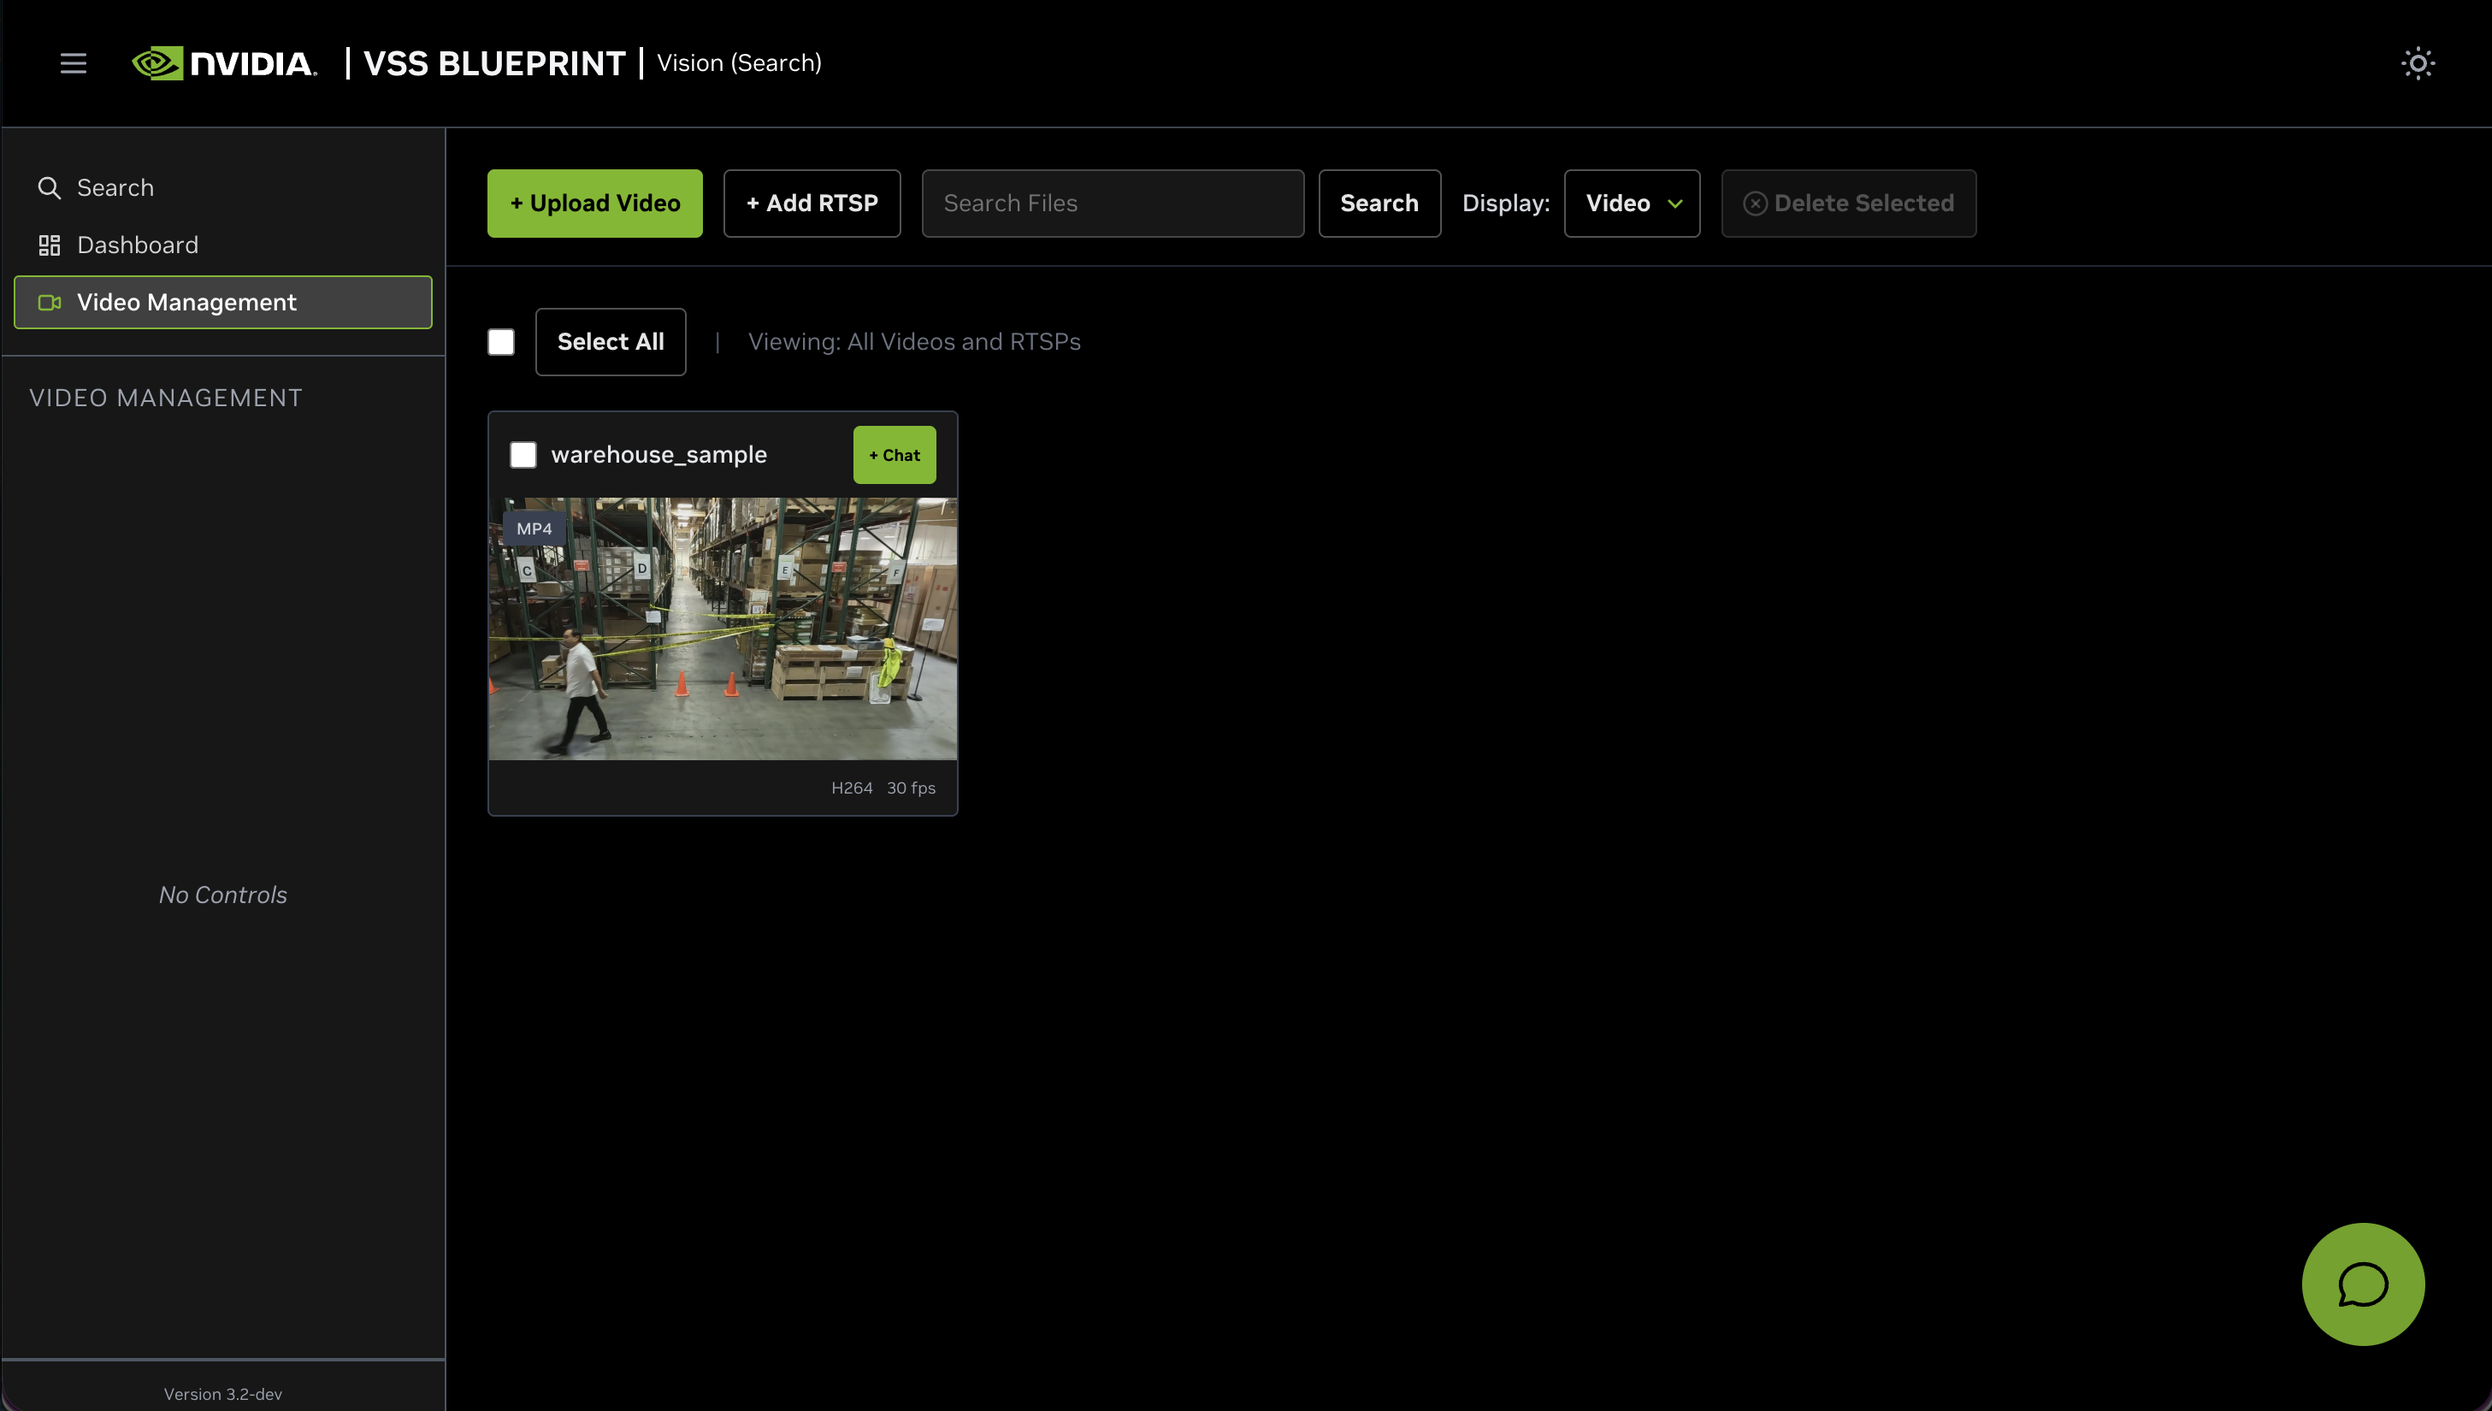
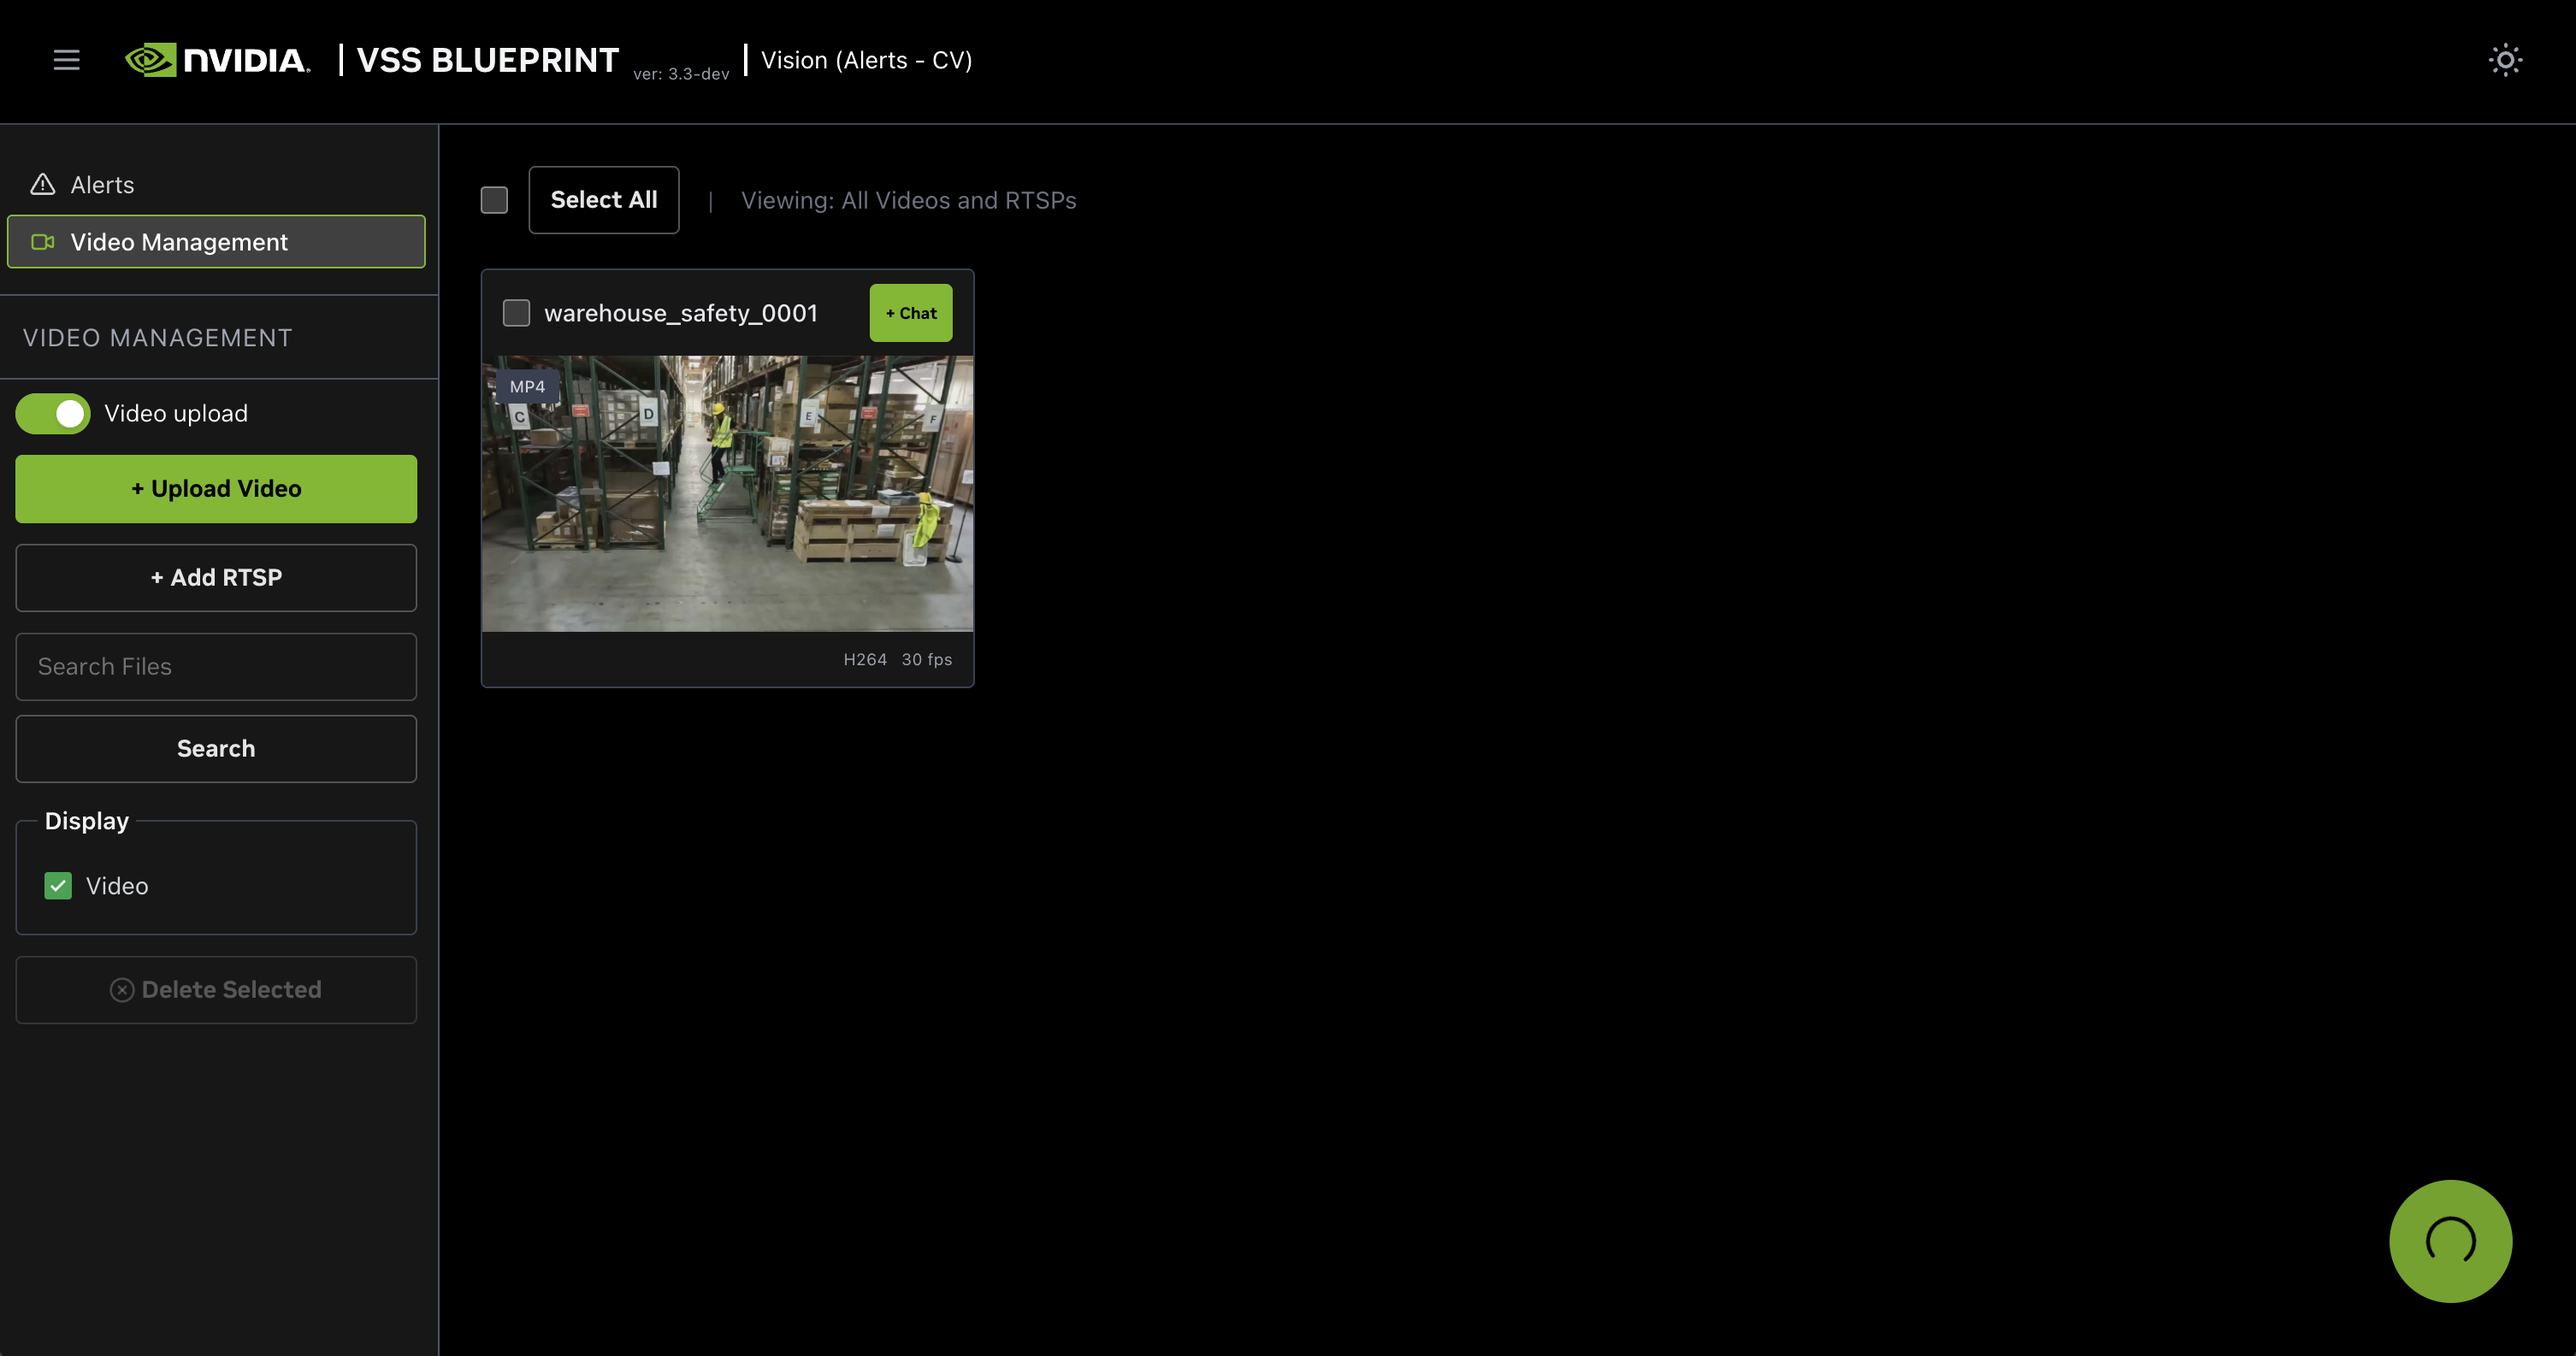
feat(agent-ui): add an "Enable video upload" switch to Video Management (#2400)
* feat(agent-ui): add an "Enable video upload" switch to Video Management

The Upload Video button is now shown or hidden by an "Enable video
upload" switch in the Video Management controls.
NEXT_PUBLIC_VIDEO_MANAGEMENT_VIDEO_UPLOAD_ENABLE only sets where the
switch starts, so a deployment that ships with upload off can still turn
it on from the UI. Switching it off also removes the empty-state drop
zone, and no longer hides videos that are already listed. The switch is
disabled while a dialog is open and resets on page reload.

Document the switch in docs/vss-ui.mdx and the flag comment in
services/ui/DOCKER-README.md.

* docs: refresh Video Management overview screenshot

---------

diff --git a/services/ui/packages/nv-metropolis-bp-vss-ui/video-management/__tests__/components/VideoManagementComponent.test.tsx b/services/ui/packages/nv-metropolis-bp-vss-ui/video-management/__tests__/components/VideoManagementComponent.test.tsx
@@ -850,6 +850,76 @@ describe('VideoManagementComponent — Add RTSP waits for VST to list the stream
   });
 });
 
+// The deployment flag only sets where the switch starts, so a deployment that ships with
+// upload off can still have it turned on from the tab.
+describe('VideoManagementComponent — Enable video upload switch', () => {
+  beforeEach(() => {
+    jest.clearAllMocks();
+    mockStreamsList = [videoStream, rtspStream];
+    lastUploadDialogProps = null;
+  });
+
+  const uploadSwitch = () => screen.getByRole('switch', { name: 'Enable video upload' });
+  const queryUploadButton = () => screen.queryByRole('button', { name: '+ Upload Video' });
+  const renderWithUploadFlag = (enableVideoUpload: boolean) =>
+    renderComponent({ videoManagementData: { ...defaultProps.videoManagementData, enableVideoUpload } });
+
+  it('starts off when the deployment disables upload, and switching it on shows the button', async () => {
+    renderWithUploadFlag(false);
+
+    expect(uploadSwitch()).toHaveAttribute('aria-checked', 'false');
+    expect(queryUploadButton()).not.toBeInTheDocument();
+
+    await act(async () => {
+      fireEvent.click(uploadSwitch());
+    });
+
+    expect(uploadSwitch()).toHaveAttribute('aria-checked', 'true');
+    await act(async () => {
+      fireEvent.click(queryUploadButton()!);
+    });
+    expect(lastUploadDialogProps.open).toBe(true);
+  });
+
+  it('hides the button when switched off but keeps uploaded videos listed', async () => {
+    renderWithUploadFlag(true);
+
+    expect(uploadSwitch()).toHaveAttribute('aria-checked', 'true');
+    expect(queryUploadButton()).toBeInTheDocument();
+
+    await act(async () => {
+      fireEvent.click(uploadSwitch());
+    });
+
+    expect(queryUploadButton()).not.toBeInTheDocument();
+    expect(screen.getByRole('button', { name: `Play ${videoStream.name}` })).toBeInTheDocument();
+  });
+
+  it('removes the empty-state drop zone while switched off', async () => {
+    mockStreamsList = [];
+    renderWithUploadFlag(true);
+
+    expect(screen.getByText('Drop files here')).toBeInTheDocument();
+
+    await act(async () => {
+      fireEvent.click(uploadSwitch());
+    });
+
+    expect(screen.queryByText('Drop files here')).not.toBeInTheDocument();
+    expect(screen.getByText('No videos available')).toBeInTheDocument();
+  });
+
+  it('cannot be flipped while a dialog is open', async () => {
+    renderWithUploadFlag(true);
+
+    await act(async () => {
+      fireEvent.click(screen.getByRole('button', { name: '+ Add RTSP' }));
+    });
+
+    expect(uploadSwitch()).toBeDisabled();
+  });
+});
+
 // The RTSP and delete dialogs overlay the pane but not the toolbar above it, so their
 // trigger buttons stay clickable while a dialog is open. A second dialog opened that way
 // could end up stacked behind the first and be unreachable until the top one was closed.
@@ -948,6 +1018,7 @@ describe('VideoManagementComponent — left sidebar controls', () => {
     render(<>{controlsComponent}</>);
 
     expect(screen.getByTestId('video-management-sidebar-controls')).toBeInTheDocument();
+    expect(screen.getByRole('switch', { name: 'Enable video upload' })).toBeInTheDocument();
     expect(screen.getByRole('button', { name: '+ Upload Video' })).toBeInTheDocument();
     expect(screen.getByRole('button', { name: '+ Add RTSP' })).toBeInTheDocument();
     expect(screen.getByTestId('search-video-input')).toBeInTheDocument();

diff --git a/services/ui/packages/nv-metropolis-bp-vss-ui/video-management/lib-src/components/Toolbar.tsx b/services/ui/packages/nv-metropolis-bp-vss-ui/video-management/lib-src/components/Toolbar.tsx
@@ -2,7 +2,7 @@
 // SPDX-License-Identifier: Apache-2.0
 import React, { useRef, useState, useEffect, useLayoutEffect, useCallback } from 'react';
 import { createPortal } from 'react-dom';
-import { Button, TextInput } from '@nvidia/foundations-react-core';
+import { Button, Switch, TextInput } from '@nvidia/foundations-react-core';
 
 const DISPLAY_FILTER_MENU_Z_INDEX = 10600;
 
@@ -20,7 +20,9 @@ interface ToolbarProps {
   onDeleteSelected: () => void;
   isDeleting?: boolean;
   enableAddRtspButton?: boolean;
+  /** State of the "Enable video upload" switch; the "Upload Video" button is shown only while it is on. */
   enableVideoUpload?: boolean;
+  onEnableVideoUploadChange: (value: boolean) => void;
   /** Called when user clicks "Upload Video" — opens the upload dialog directly (bypasses native file picker). */
   onUploadClick?: () => void;
   /** Only show Video option when API returned at least one video stream */
@@ -52,6 +54,7 @@ export const Toolbar: React.FC<ToolbarProps> = ({
   isDeleting = false,
   enableAddRtspButton = true,
   enableVideoUpload = true,
+  onEnableVideoUploadChange,
   onUploadClick,
   hasVideoStreams = true,
   hasRtspStreams = true,
@@ -128,7 +131,8 @@ export const Toolbar: React.FC<ToolbarProps> = ({
     }
   };
 
-  const showVideoOption = enableVideoUpload && hasVideoStreams;
+  // Existing videos stay listed whether or not upload is switched on.
+  const showVideoOption = hasVideoStreams;
   const showRtspOption = enableAddRtspButton && hasRtspStreams;
   const showDisplayFilter = showVideoOption || showRtspOption;
 
@@ -214,6 +218,16 @@ export const Toolbar: React.FC<ToolbarProps> = ({
     </>
   );
 
+  const videoUploadSwitch = (
+    <Switch
+      data-testid="video-upload-toggle"
+      slotLabel="Enable video upload"
+      checked={enableVideoUpload}
+      onCheckedChange={onEnableVideoUploadChange}
+      disabled={isDialogOpen}
+    />
+  );
+
   const deleteButton = (
     <Button
       kind="secondary"
@@ -270,6 +284,7 @@ export const Toolbar: React.FC<ToolbarProps> = ({
           onChange={handleFileInputChange}
           className="hidden"
         />
+        {videoUploadSwitch}
         {enableVideoUpload && (
           <Button kind="primary" onClick={onUploadClick ?? handleUploadClick} disabled={isDialogOpen} className="w-full">
             + Upload Video
@@ -317,6 +332,7 @@ export const Toolbar: React.FC<ToolbarProps> = ({
           className="hidden"
         />
 
+        {videoUploadSwitch}
         {enableVideoUpload && (
           <Button kind="primary" onClick={onUploadClick ?? handleUploadClick} disabled={isDialogOpen}>
             + Upload Video

diff --git a/services/ui/packages/nv-metropolis-bp-vss-ui/video-management/lib-src/VideoManagementComponent.tsx b/services/ui/packages/nv-metropolis-bp-vss-ui/video-management/lib-src/VideoManagementComponent.tsx
@@ -95,7 +95,8 @@ export const VideoManagementComponent: React.FC<VideoManagementComponentProps> =
   const vstApiUrl = videoManagementData?.vstApiUrl;
   const chatUploadFileConfigTemplateJson = videoManagementData?.chatUploadFileConfigTemplateJson;
   const enableAddRtspButton = videoManagementData?.enableAddRtspButton ?? true;
-  const enableVideoUpload = videoManagementData?.enableVideoUpload ?? true;
+  // The deployment flag only picks where the "Enable video upload" switch starts; the user owns it after that.
+  const [enableVideoUpload, setEnableVideoUpload] = useState(videoManagementData?.enableVideoUpload ?? true);
 
   // Upload dialog state
   const [showUploadDialog, setShowUploadDialog] = useState(false);
@@ -159,9 +160,6 @@ export const VideoManagementComponent: React.FC<VideoManagementComponentProps> =
   useEffect(() => {
     if (!enableAddRtspButton) setShowRtsps(false);
   }, [enableAddRtspButton]);
-  useEffect(() => {
-    if (!enableVideoUpload) setShowVideos(false);
-  }, [enableVideoUpload]);
 
   const {
     streams,
@@ -772,6 +770,7 @@ export const VideoManagementComponent: React.FC<VideoManagementComponentProps> =
     isDeleting,
     enableAddRtspButton,
     enableVideoUpload,
+    onEnableVideoUploadChange: setEnableVideoUpload,
     hasVideoStreams,
     hasRtspStreams,
     isDialogOpen,

diff --git a/services/ui/packages/nv-metropolis-bp-vss-ui/__mocks__/@nvidia-foundations-react-core.js b/services/ui/packages/nv-metropolis-bp-vss-ui/__mocks__/@nvidia-foundations-react-core.js
@@ -30,4 +30,18 @@ const Select = ({ onValueChange, items, value, ...rest }) =>
 const Tag = ({ children, ...rest }) =>
   React.createElement('span', rest, children);
 
-module.exports = { Button, TextInput, Select, Tag };
+const Switch = ({ slotLabel, checked, onCheckedChange, disabled, ...rest }) =>
+  React.createElement(
+    'label',
+    rest,
+    React.createElement('button', {
+      type: 'button',
+      role: 'switch',
+      'aria-checked': Boolean(checked),
+      disabled,
+      onClick: () => onCheckedChange?.(!checked),
+    }),
+    slotLabel
+  );
+
+module.exports = { Button, TextInput, Select, Tag, Switch };

diff --git a/services/ui/packages/nv-metropolis-bp-vss-ui/video-management/lib-src/types.ts b/services/ui/packages/nv-metropolis-bp-vss-ui/video-management/lib-src/types.ts
@@ -103,6 +103,7 @@ export interface VideoManagementData {
   vstApiUrl?: string | null;
   chatUploadFileConfigTemplateJson?: string | null;
   enableAddRtspButton?: boolean;
+  /** Starting position of the tab's "Enable video upload" switch. */
   enableVideoUpload?: boolean;
 }
 

diff --git a/services/ui/DOCKER-README.md b/services/ui/DOCKER-README.md
@@ -191,7 +191,7 @@ NEXT_PUBLIC_MAP_URL=http://127.0.0.1:3002
 NEXT_PUBLIC_ENABLE_VIDEO_MANAGEMENT_TAB=true
 # Add RTSP button in Video Management tab (enabled by default, set to 'false' to hide)
 NEXT_PUBLIC_VIDEO_MANAGEMENT_TAB_ADD_RTSP_ENABLE=true
-# Upload Video button in Video Management tab (enabled by default, set to 'false' to hide)
+# Starting position of the Enable video upload switch in the Video Management tab, which shows or hides the Upload Video button (on by default, set to 'false' to start it off)
 NEXT_PUBLIC_VIDEO_MANAGEMENT_VIDEO_UPLOAD_ENABLE=true
 ```
 
